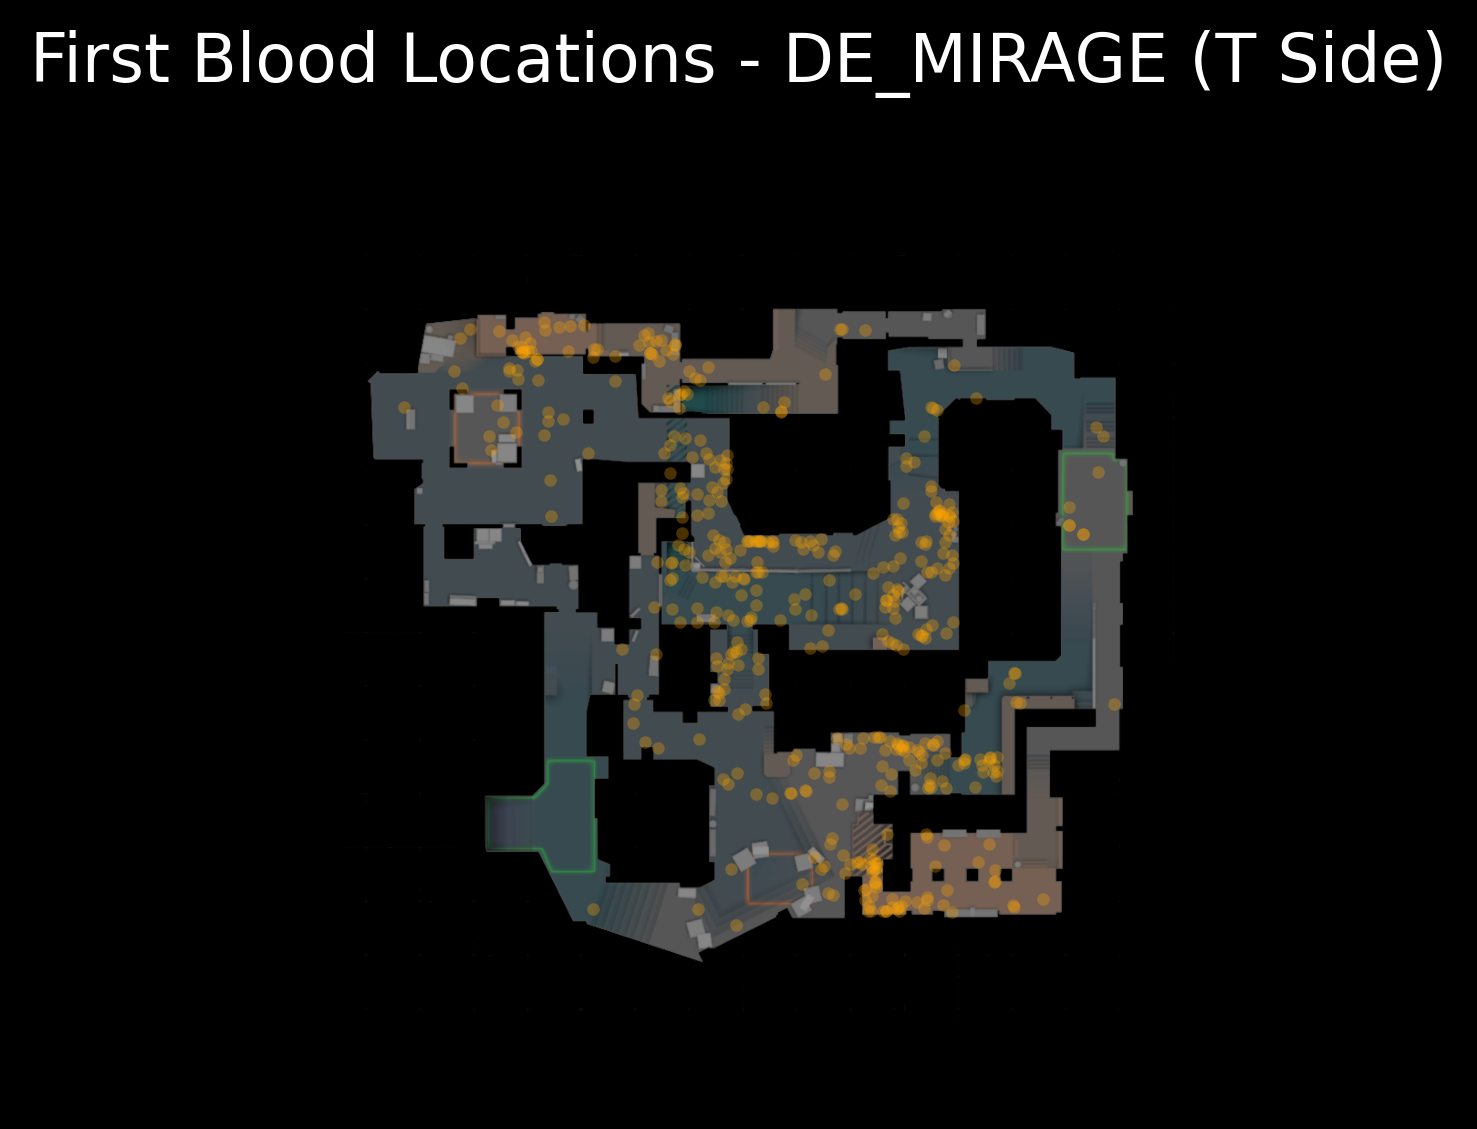
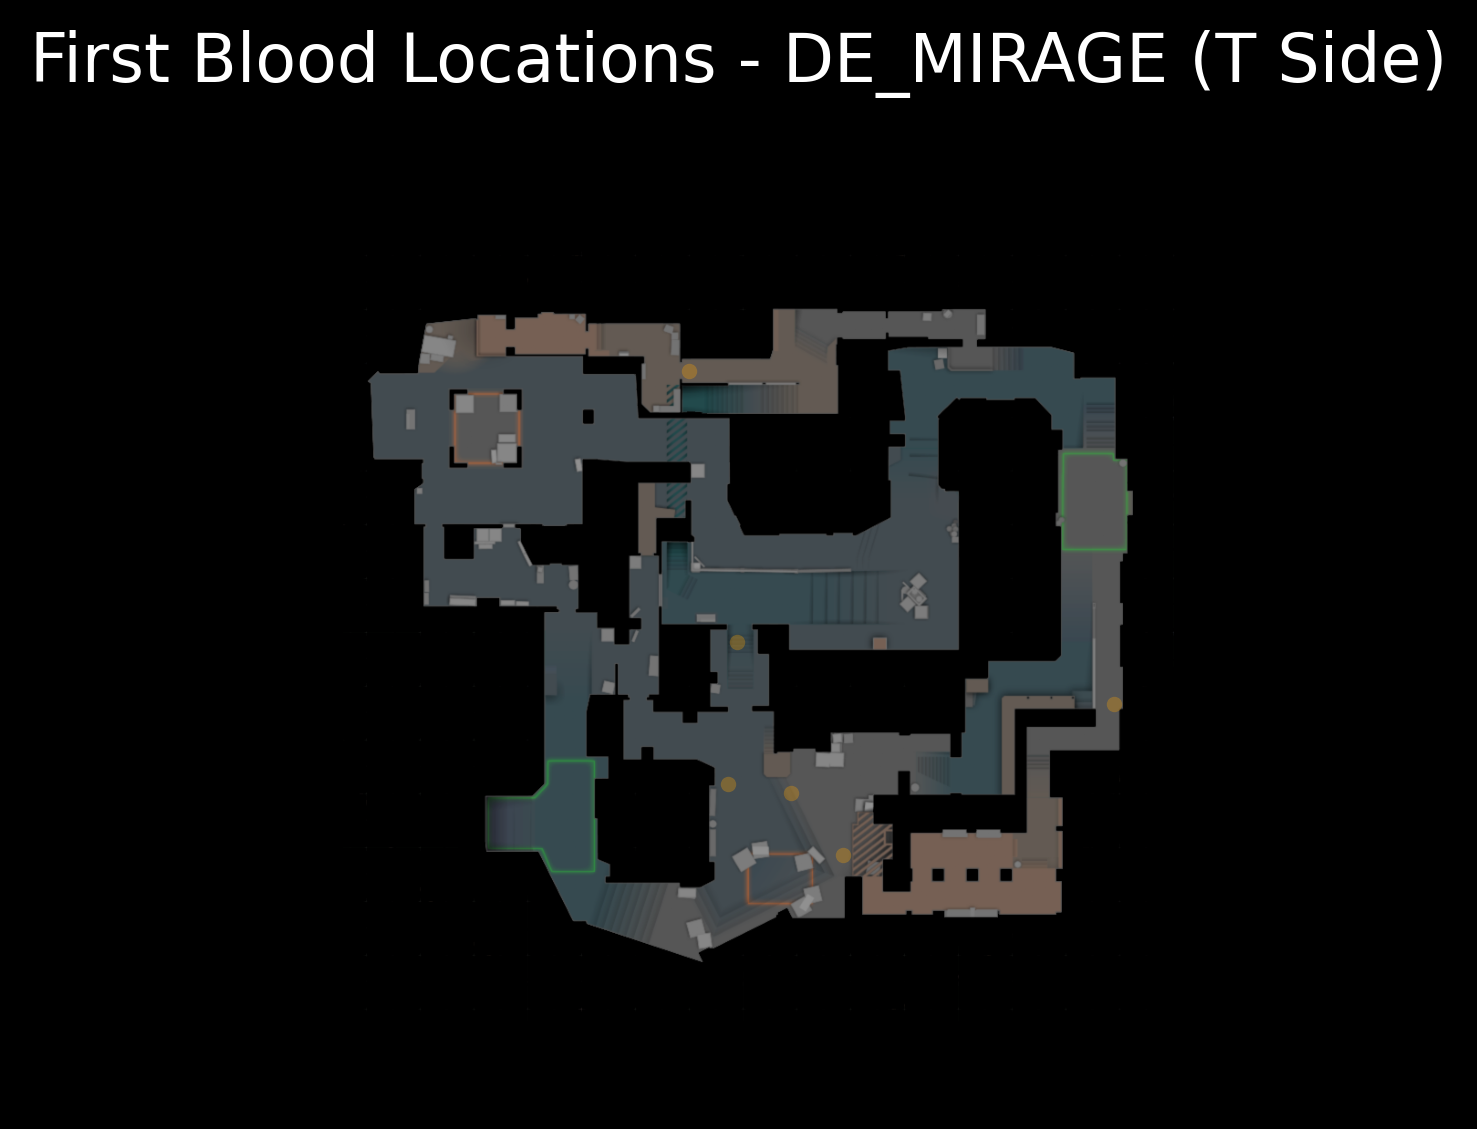
first_kill refine

diff --git a/first_kill/first_blood_heatmap.py b/first_kill/first_blood_heatmap.py
@@ -8,7 +8,7 @@ import matplotlib.image as mpimg
 from awpy.plot.utils import game_to_pixel
 
 # ===== Configuration =====
-demo_root = Path("/Volumes/TOSHIBA EXT/last3month")  # Change to your root directory
+demo_root = Path("/Users/minghanfan/Documents/Test/test2")  # Change to your root directory
 output_dir = Path("first_blood_heatmaps")
 output_dir.mkdir(exist_ok=True)
 
@@ -29,7 +29,10 @@ print(f"Found {len(demo_files)} demos under {demo_root}")
 # ===== Global aggregators =====
 # map_name -> list of (X, Y, Z, side) tuples for first kills
 first_blood_positions = defaultdict(list)
+# Track weapons used for first kills
+first_blood_weapons = defaultdict(int)
 countknife = 0
+invalid_fk_count = 0  # Track filtered first kills
 
 for demo_path in demo_files:
     print(f"Parsing {demo_path.name}")
@@ -75,7 +78,7 @@ for demo_path in demo_files:
         print(f"[info] {demo_path.name} has no kills data")
         continue
     
-    required_kill_cols = ["attacker_X", "attacker_Y", "attacker_Z", "attacker_side", "tick", "round_num"]
+    required_kill_cols = ["attacker_X", "attacker_Y", "attacker_Z", "attacker_side", "attacker_name", "victim_name", "weapon", "tick", "round_num"]
     missing_kill = [c for c in required_kill_cols if c not in kills_df.columns]
     
     if missing_kill:
@@ -92,14 +95,37 @@ for demo_path in demo_files:
         # Sort by tick to get first kill
         round_kills = round_kills.sort_values("tick")
         
-        # Get the first kill of the round
-        first_kill = round_kills.iloc[0]
+        # Find the first VALID kill of the round
+        first_kill = None
+        for idx, kill_row in round_kills.iterrows():
+            attacker_name = str(kill_row.get("attacker_name", ""))
+            victim_name = str(kill_row.get("victim_name", ""))
+            weapon = str(kill_row.get("weapon", "")).lower()
+            
+            # Skip if attacker killed themselves
+            if attacker_name == victim_name:
+                invalid_fk_count += 1
+                continue
+            
+            # Skip if weapon is invalid (world, fall damage, etc.)
+            if weapon in ["", "world", "worldspawn", "trigger_hurt", "unknown"]:
+                invalid_fk_count += 1
+                continue
+            
+            # This is a valid first kill
+            first_kill = kill_row
+            break
+        
+        # If no valid first kill found, skip this round
+        if first_kill is None:
+            continue
         
         # Extract position and side
         x = first_kill["attacker_X"]
         y = first_kill["attacker_Y"]
         z = first_kill["attacker_Z"]
         side = str(first_kill["attacker_side"]).lower()
+        weapon = str(first_kill["weapon"]).lower()
         
         # Skip if any coordinate is NaN
         if pd.isna(x) or pd.isna(y) or pd.isna(z) or pd.isna(side):
@@ -107,6 +133,9 @@ for demo_path in demo_files:
         
         # Store the position
         first_blood_positions[map_name].append((x, y, z, side))
+        
+        # Track weapon
+        first_blood_weapons[weapon] += 1
 
 # ===== Generate heatmaps for each map =====
 print(f"\n{'='*70}")
@@ -152,13 +181,13 @@ for map_name, positions in first_blood_positions.items():
                 px = game_to_pixel(map_name, (x, y, z))[0]
                 py = game_to_pixel(map_name, (x, y, z))[1]
                 
-                # Plot as red circle with transparency
-                ax.plot(px, py, 'o', color='orange', markersize=3, alpha=0.3)
+                # Plot as red circle with transparency and no edge
+                ax.plot(px, py, 'o', color='orange', markersize=3, alpha=0.3, markeredgewidth=0)
             
             plt.title(f"First Blood Locations - {map_name.upper()} (All Sides)", 
                      fontsize=16, color='white', pad=20)
             output_file = output_dir / f"{map_name}_firstblood_all.png"
-            plt.savefig(output_file, dpi=500, bbox_inches='tight', facecolor='black')
+            plt.savefig(output_file, dpi=300, bbox_inches='tight', facecolor='black')
             plt.close()
             print(f"  Saved: {output_file}")
         
@@ -171,8 +200,8 @@ for map_name, positions in first_blood_positions.items():
                 px = game_to_pixel(map_name, (x, y, z))[0]
                 py = game_to_pixel(map_name, (x, y, z))[1]
                 
-                # Plot as blue circle with transparency
-                ax.plot(px, py, 'o', color='blue', markersize=3, alpha=0.3, markeredgewidth=0)
+                # Plot as blue circle with transparency and no edge
+                ax.plot(px, py, 'o', color='cyan', markersize=3.7, alpha=0.3, markeredgewidth=0)
             
             plt.title(f"First Blood Locations - {map_name.upper()} (CT Side)", 
                      fontsize=16, color='white', pad=20)
@@ -190,8 +219,8 @@ for map_name, positions in first_blood_positions.items():
                 px = game_to_pixel(map_name, (x, y, z))[0]
                 py = game_to_pixel(map_name, (x, y, z))[1]
                 
-                # Plot as orange circle with transparency
-                ax.plot(px, py, 'o', color='orange', markersize=3, alpha=0.3, markeredgewidth=0)
+                # Plot as orange circle with transparency and no edge
+                ax.plot(px, py, 'o', color='orange', markersize=3.7, alpha=0.3, markeredgewidth=0)
             
             plt.title(f"First Blood Locations - {map_name.upper()} (T Side)", 
                      fontsize=16, color='white', pad=20)
@@ -251,7 +280,31 @@ if summary_rows:
     print(f"Total first bloods analyzed: {total_first_bloods}")
     print(f"CT first bloods: {total_ct} ({total_ct/total_first_bloods*100:.2f}%)")
     print(f"T first bloods: {total_t} ({total_t/total_first_bloods*100:.2f}%)")
+    print(f"Invalid first kills filtered: {invalid_fk_count} (suicides, world damage)")
     print(f"Maps analyzed: {len(summary_df)}")
     print(f"\nHeatmaps saved to: {output_dir.absolute()}")
+    
+    # Print weapon statistics
+    print(f"\n{'='*70}")
+    print("FIRST BLOOD WEAPON STATISTICS")
+    print(f"{'='*70}")
+    
+    # Sort weapons by frequency
+    sorted_weapons = sorted(first_blood_weapons.items(), key=lambda x: x[1], reverse=True)
+    
+    print(f"{'Weapon':<25} {'Count':>10} {'Percentage':>12}")
+    print("-" * 50)
+    for weapon, count in sorted_weapons:
+        percentage = (count / total_first_bloods * 100) if total_first_bloods > 0 else 0
+        print(f"{weapon:<25} {count:>10} {percentage:>11.2f}%")
+    
+    # Save weapon stats to CSV
+    weapon_df = pd.DataFrame([
+        {"Weapon": weapon, "Count": count, "Percentage": round(count / total_first_bloods * 100, 2)}
+        for weapon, count in sorted_weapons
+    ])
+    weapon_csv = output_dir / "first_blood_weapons.csv"
+    weapon_df.to_csv(weapon_csv, index=False)
+    print(f"\nWeapon statistics saved to: {weapon_csv}")
 else:
     print("No data collected.")
